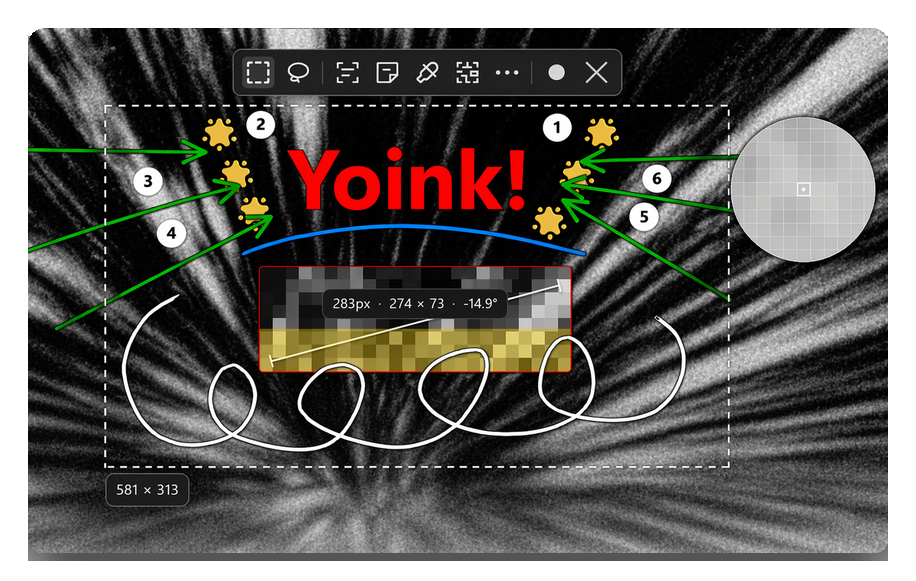
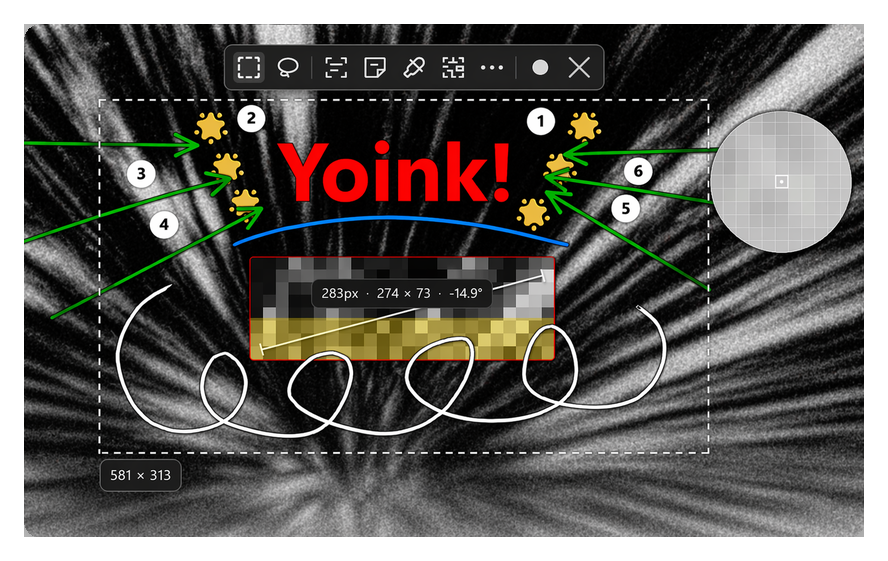
Unify README screenshots under a softer presentation
The README images were visually inconsistent and the hero shadow still felt directional. This regenerates the README-specific screenshot assets with the same light rounded corners and an even, soft shadow around each image, while making the hero screenshot a touch smaller so the page breathes better.

Constraint: Make the effect work in GitHub README rendering without CSS dependence
Rejected: Apply styling only to the hero image | the page looked inconsistent when the feature images kept their older hard-edged treatment
Confidence: high
Scope-risk: narrow
Reversibility: clean
Directive: Keep README-only visual treatments in separate *-readme image assets and apply one consistent framing system across screenshots
Tested: Visual inspection of generated assets and README diff review
Not-tested: Final GitHub rendering after push

diff --git a/README.md b/README.md
@@ -16,7 +16,7 @@
 </p>
 
 <p align="center">
-  <img src="assets/3banner-readme.png" alt="yoink screenshot" width="860" />
+  <img src="assets/3banner-readme.png" alt="yoink screenshot" width="840" />
 </p>
 
 ## Download
@@ -39,7 +39,7 @@ winget upgrade --id JasperDevs.Yoink -e
 Region, fullscreen, active-window, and scrolling capture in one ShareX-style workflow.
 </td>
 <td width="60%">
-<img src="assets/screenshot-main.png" alt="Yoink main capture workflow" width="100%" />
+<img src="assets/screenshot-main-readme.png" alt="Yoink main capture workflow" width="100%" />
 </td>
 </tr>
 <tr>
@@ -48,7 +48,7 @@ Region, fullscreen, active-window, and scrolling capture in one ShareX-style wor
 Open ChatGPT, Claude, Gemini, or Google Lens right after capture, then keep the image pinned and ready to drag or paste into the chat box.
 </td>
 <td width="60%">
-<img src="assets/airedirects.png" alt="Yoink AI Redirects" width="100%" />
+<img src="assets/airedirects-readme.png" alt="Yoink AI Redirects" width="100%" />
 </td>
 </tr>
 <tr>
@@ -57,7 +57,7 @@ Open ChatGPT, Claude, Gemini, or Google Lens right after capture, then keep the 
 Remove backgrounds and turn screenshots into polished stickers with optional stroke and shadow finishing.
 </td>
 <td width="60%">
-<img src="assets/sticker-showcase.png" alt="Yoink sticker creation" width="100%" />
+<img src="assets/sticker-showcase-readme.png" alt="Yoink sticker creation" width="100%" />
 </td>
 </tr>
 <tr>
@@ -66,7 +66,7 @@ Remove backgrounds and turn screenshots into polished stickers with optional str
 Extract text from any screen region into a dedicated result window where you can edit, copy, and translate with local or cloud-backed providers.
 </td>
 <td width="60%">
-<img src="assets/screenshot-ocr.png" alt="Yoink OCR and translation" width="100%" />
+<img src="assets/screenshot-ocr-readme.png" alt="Yoink OCR and translation" width="100%" />
 </td>
 </tr>
 <tr>
@@ -75,7 +75,7 @@ Extract text from any screen region into a dedicated result window where you can
 Launch capture, OCR, color picking, recording, history, and more from system-wide hotkeys or the tray menu without breaking your flow.
 </td>
 <td width="60%">
-<img src="assets/screenshot-main.png" alt="Yoink hotkeys and tray workflow" width="100%" />
+<img src="assets/screenshot-main-readme.png" alt="Yoink hotkeys and tray workflow" width="100%" />
 </td>
 </tr>
 <tr>
@@ -84,7 +84,7 @@ Launch capture, OCR, color picking, recording, history, and more from system-wid
 Record GIFs and videos in multiple formats with optional microphone and desktop audio capture.
 </td>
 <td width="60%">
-<img src="assets/recording.png" alt="Yoink recording" width="100%" />
+<img src="assets/recording-readme.png" alt="Yoink recording" width="100%" />
 </td>
 </tr>
 <tr>
@@ -93,7 +93,7 @@ Record GIFs and videos in multiple formats with optional microphone and desktop 
 Find past captures by filename, OCR text, or semantic similarity so you can recover screenshots by meaning, not just date.
 </td>
 <td width="60%">
-<img src="assets/screenshot-search.png" alt="Yoink searchable history" width="100%" />
+<img src="assets/screenshot-search-readme.png" alt="Yoink searchable history" width="100%" />
 </td>
 </tr>
 <tr>
@@ -102,7 +102,7 @@ Find past captures by filename, OCR text, or semantic similarity so you can reco
 Arrows, text, shapes, blur, and freehand markup are built into the same fast capture workflow with cleaner stroke and shadow effects.
 </td>
 <td width="60%">
-<img src="assets/screenshot-main.png" alt="Yoink annotation tools" width="100%" />
+<img src="assets/screenshot-main-readme.png" alt="Yoink annotation tools" width="100%" />
 </td>
 </tr>
 <tr>
@@ -111,7 +111,7 @@ Arrows, text, shapes, blur, and freehand markup are built into the same fast cap
 Download language packs on demand for multilingual OCR and translation workflows without turning the app into a cloud-only tool.
 </td>
 <td width="60%">
-<img src="assets/screenshot-ocr.png" alt="Yoink OCR language support" width="100%" />
+<img src="assets/screenshot-ocr-readme.png" alt="Yoink OCR language support" width="100%" />
 </td>
 </tr>
 <tr>
@@ -120,7 +120,7 @@ Download language packs on demand for multilingual OCR and translation workflows
 Color picker, QR and barcode scanning, ruler tools, and step numbering live alongside capture instead of being split across separate apps.
 </td>
 <td width="60%">
-<img src="assets/screenshot-main.png" alt="Yoink utility tools" width="100%" />
+<img src="assets/screenshot-main-readme.png" alt="Yoink utility tools" width="100%" />
 </td>
 </tr>
 <tr>
@@ -129,7 +129,7 @@ Color picker, QR and barcode scanning, ruler tools, and step numbering live alon
 Upload screenshots, stickers, and recordings to Imgur, S3, Dropbox, OneDrive, Immich, and self-hosted targets from the same post-capture flow.
 </td>
 <td width="60%">
-<img src="assets/screenshot-main.png" alt="Yoink uploads" width="100%" />
+<img src="assets/screenshot-main-readme.png" alt="Yoink uploads" width="100%" />
 </td>
 </tr>
 </table>
